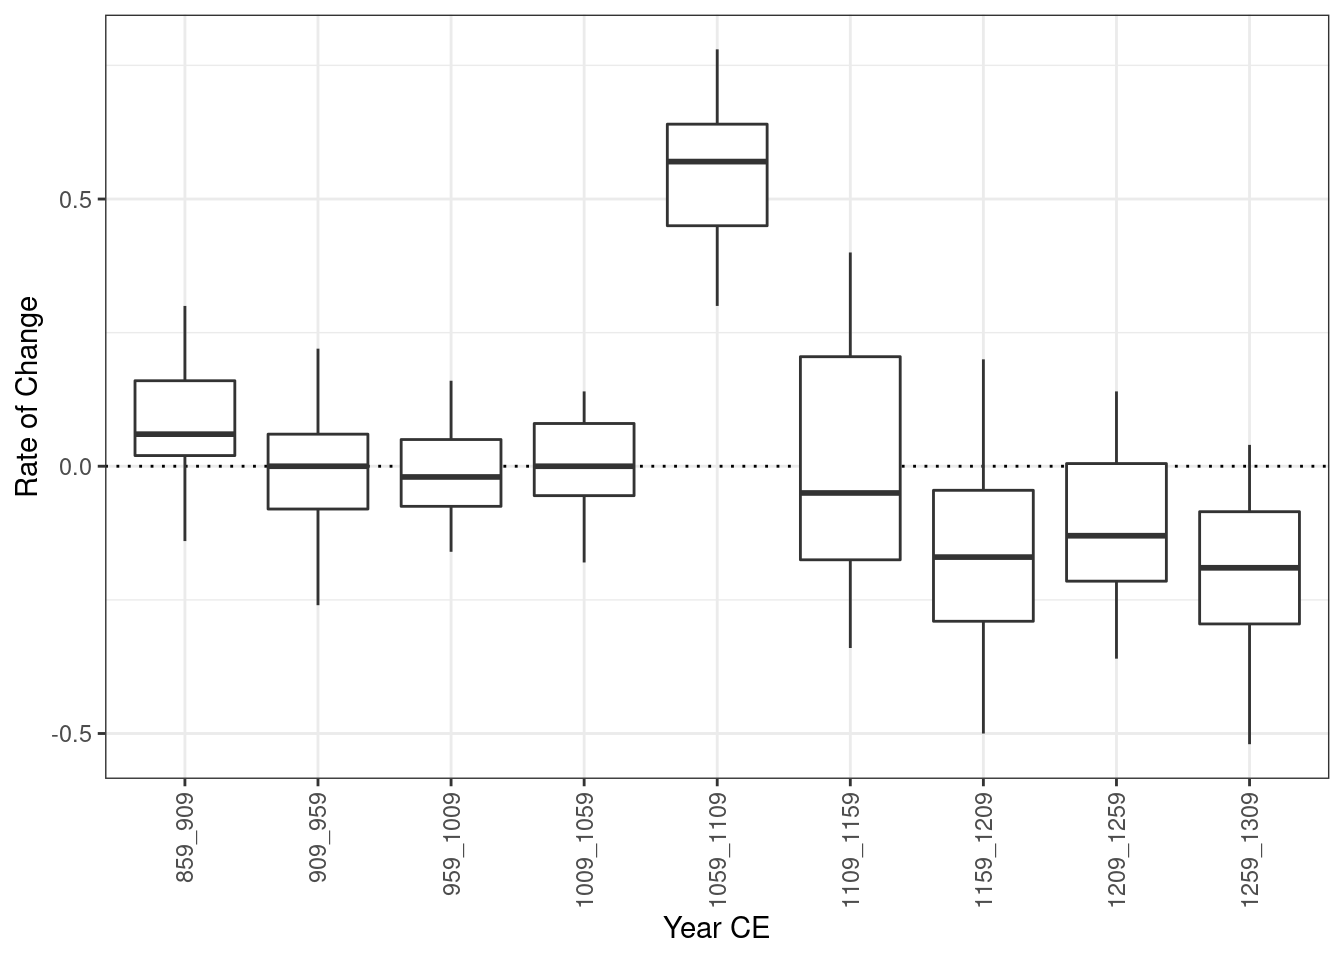
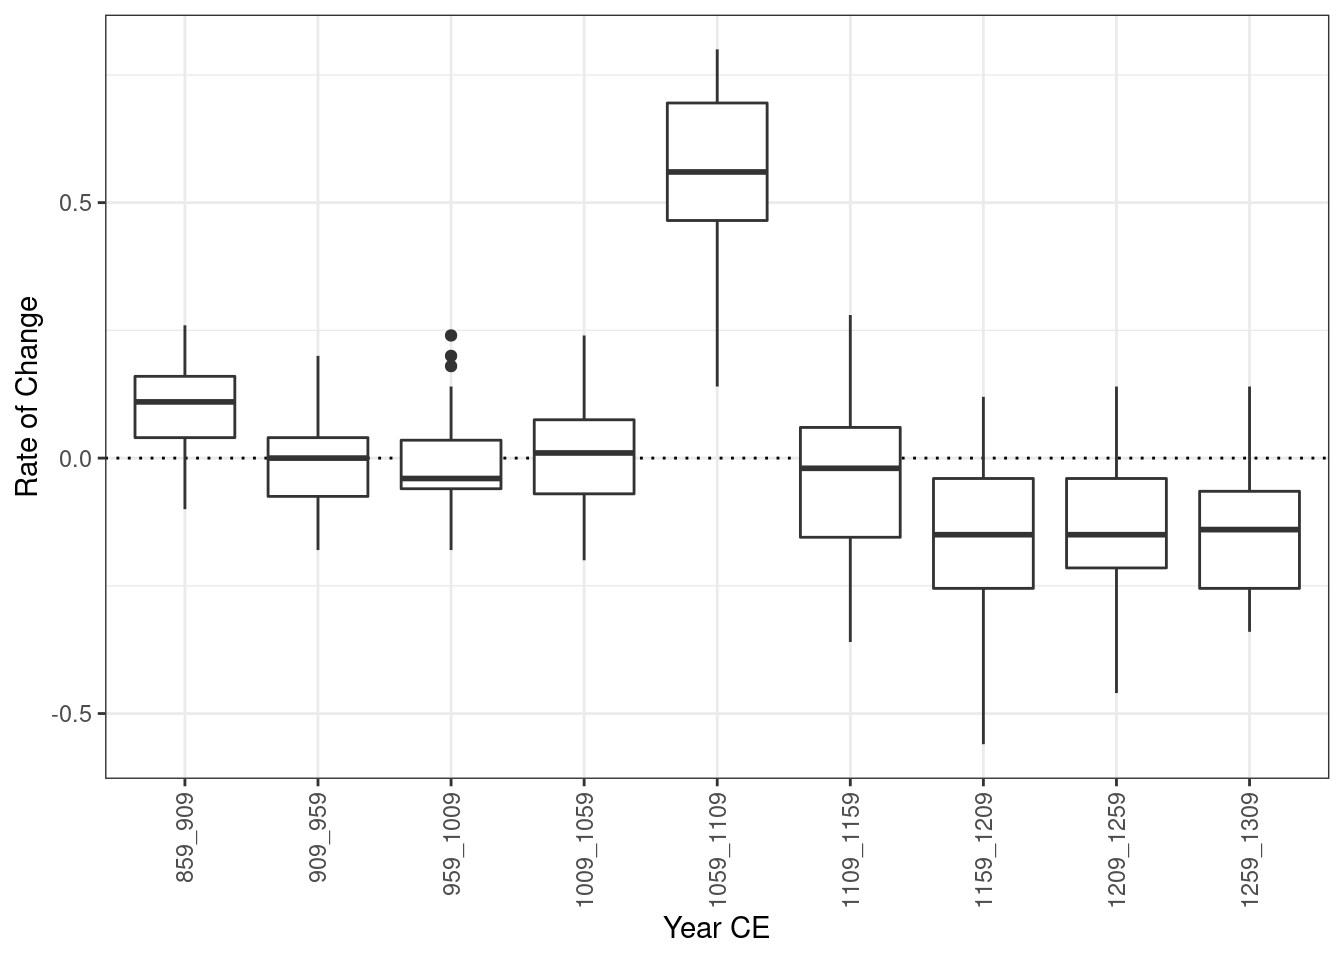
Deploying to gh-pages from @ tesselle/website@42cf3d01c6f4d4f226fd1408aa507405ba7e16fb 🚀

diff --git a/posts/2021-08-15-tesselle-universe/index.html b/posts/2021-08-15-tesselle-universe/index.html
@@ -256,21 +256,27 @@ code span.wa { color: #60a0b0; font-weight: bold; font-style: italic; } /* Warni
 
 
 <p>Most of the R packages of the <strong>tesselle</strong> project are distributed on <a href="https://cran.r-project.org/"><abbr title="Comprehensive R Archive Network">CRAN</abbr></a> when they reach an acceptable level of maturity. Development versions can be installed from <a href="https://github.com/tesselle">GitHub</a> using <a href="https://remotes.r-lib.org">remotes</a> :</p>
-<div class="sourceCode" id="cb1"><pre class="sourceCode r code-with-copy"><code class="sourceCode r"><span id="cb1-1"><a href="#cb1-1" aria-hidden="true" tabindex="-1"></a><span class="do">## Install the development version from GitHub</span></span>
+<div class="cell">
+<div class="sourceCode cell-code" id="cb1"><pre class="sourceCode r code-with-copy"><code class="sourceCode r"><span id="cb1-1"><a href="#cb1-1" aria-hidden="true" tabindex="-1"></a><span class="do">## Install the development version from GitHub</span></span>
 <span id="cb1-2"><a href="#cb1-2" aria-hidden="true" tabindex="-1"></a><span class="fu">install.packages</span>(<span class="st">"remotes"</span>)</span>
 <span id="cb1-3"><a href="#cb1-3" aria-hidden="true" tabindex="-1"></a>remotes<span class="sc">::</span><span class="fu">install_github</span>(<span class="st">"tesselle/tabula"</span>)</span></code><button title="Copy to Clipboard" class="code-copy-button"><i class="bi"></i></button></pre></div>
+</div>
 <p>Thanks to the <a href="https://ropensci.org/r-universe/">R-universe</a> project powered by <a href="https://ropensci.org">rOpenSci</a>, <strong>tesselle</strong> now has its own <abbr title="Comprehensive R Archive Network">CRAN</abbr>-like repository: <a href="https://tesselle.r-universe.dev"><strong>tesselle.r-universe.dev</strong></a>. This repository allows to install all development versions and non-<abbr title="Comprehensive R Archive Network">CRAN</abbr> packages (e.g.&nbsp;<a href="https://www.repostatus.org/#wip"><abbr title="work-in-progress">WIP</abbr></a> packages and large data packages).</p>
 <section id="download-tesselle-packages" class="level2">
 <h2 class="anchored" data-anchor-id="download-tesselle-packages">Download tesselle packages</h2>
 <p>If you want to install a package from the <a href="https://tesselle.r-universe.dev">tesselle universe</a>, simply use <code>install.packages()</code> with the additional repository:</p>
-<div class="sourceCode" id="cb2"><pre class="sourceCode r code-with-copy"><code class="sourceCode r"><span id="cb2-1"><a href="#cb2-1" aria-hidden="true" tabindex="-1"></a><span class="do">## Install a package from the 'tesselle' universe</span></span>
+<div class="cell">
+<div class="sourceCode cell-code" id="cb2"><pre class="sourceCode r code-with-copy"><code class="sourceCode r"><span id="cb2-1"><a href="#cb2-1" aria-hidden="true" tabindex="-1"></a><span class="do">## Install a package from the 'tesselle' universe</span></span>
 <span id="cb2-2"><a href="#cb2-2" aria-hidden="true" tabindex="-1"></a><span class="fu">install.packages</span>(<span class="st">"tabula"</span>, <span class="at">repos =</span> <span class="st">"https://tesselle.r-universe.dev"</span>)</span></code><button title="Copy to Clipboard" class="code-copy-button"><i class="bi"></i></button></pre></div>
-<div class="sourceCode" id="cb3"><pre class="sourceCode r code-with-copy"><code class="sourceCode r"><span id="cb3-1"><a href="#cb3-1" aria-hidden="true" tabindex="-1"></a><span class="do">## Enable the repository globally</span></span>
+</div>
+<div class="cell">
+<div class="sourceCode cell-code" id="cb3"><pre class="sourceCode r code-with-copy"><code class="sourceCode r"><span id="cb3-1"><a href="#cb3-1" aria-hidden="true" tabindex="-1"></a><span class="do">## Enable the repository globally</span></span>
 <span id="cb3-2"><a href="#cb3-2" aria-hidden="true" tabindex="-1"></a><span class="fu">options</span>(<span class="at">repos =</span> <span class="fu">c</span>(<span class="at">tesselle =</span> <span class="st">"https://tesselle.r-universe.dev"</span>,</span>
 <span id="cb3-3"><a href="#cb3-3" aria-hidden="true" tabindex="-1"></a>                  <span class="at">CRAN =</span> <span class="st">"https://cloud.r-project.org"</span>))</span>
 <span id="cb3-4"><a href="#cb3-4" aria-hidden="true" tabindex="-1"></a></span>
 <span id="cb3-5"><a href="#cb3-5" aria-hidden="true" tabindex="-1"></a><span class="do">## Install some packages</span></span>
 <span id="cb3-6"><a href="#cb3-6" aria-hidden="true" tabindex="-1"></a><span class="fu">install.packages</span>(<span class="fu">c</span>(<span class="st">"tabula"</span>, <span class="st">"kairos"</span>))</span></code><button title="Copy to Clipboard" class="code-copy-button"><i class="bi"></i></button></pre></div>
+</div>
 </section>
 <section id="use-the-repository" class="level2">
 <h2 class="anchored" data-anchor-id="use-the-repository">Use the repository</h2>

diff --git a/index.html b/index.html
@@ -202,7 +202,7 @@ ul.task-list{list-style: none;}
     </div>
 </div>
 <div class="list quarto-listing-default">
-<div class="quarto-post image-right" data-index="0" data-categories="packages,releases" data-listing-date-sort="1655510400000" data-listing-file-modified-sort="1660492128869" data-listing-reading-time-sort="1.76">
+<div class="quarto-post image-right" data-index="0" data-categories="packages,releases" data-listing-date-sort="1655510400000" data-listing-file-modified-sort="1660498152443" data-listing-reading-time-sort="1.76">
 <div class="thumbnail">
 <a href="./posts/2022-06-18-kairos-110/index.html">
 <div class="thumbnail-image">
@@ -240,7 +240,7 @@ Nicolas Frerebeau
 </a>
 </div>
 </div>
-<div class="quarto-post image-right" data-index="1" data-categories="packages,releases" data-listing-date-sort="1636502400000" data-listing-file-modified-sort="1660492128869" data-listing-reading-time-sort="3.935">
+<div class="quarto-post image-right" data-index="1" data-categories="packages,releases" data-listing-date-sort="1636502400000" data-listing-file-modified-sort="1660498152443" data-listing-reading-time-sort="3.935">
 <div class="thumbnail">
 <a href="./posts/2021-11-10-kairos-100/index.html">
 <div class="thumbnail-image">
@@ -278,7 +278,7 @@ Nicolas Frerebeau
 </a>
 </div>
 </div>
-<div class="quarto-post image-right" data-index="2" data-categories="packages" data-listing-date-sort="1628985600000" data-listing-file-modified-sort="1660492128869" data-listing-reading-time-sort="0.985">
+<div class="quarto-post image-right" data-index="2" data-categories="packages" data-listing-date-sort="1628985600000" data-listing-file-modified-sort="1660498152443" data-listing-reading-time-sort="0.985">
 <div class="thumbnail">
 <p><a href="./posts/2021-08-15-tesselle-universe/index.html"> <img src="./posts/2021-08-15-tesselle-universe/runiverse.png" class="thumnail-image"> </a></p>
 </div>

diff --git a/posts/2021-11-10-kairos-100/index.html b/posts/2021-11-10-kairos-100/index.html
@@ -329,12 +329,12 @@ div.csl-indent {
 <span id="cb6-3"><a href="#cb6-3" aria-hidden="true" tabindex="-1"></a><span class="fu">head</span>(zuni_boot)</span></code><button title="Copy to Clipboard" class="code-copy-button"><i class="bi"></i></button></pre></div>
 <div class="cell-output cell-output-stdout">
 <pre><code>        min     mean  max     lower     upper
-LZ1105 1109 1162.828 1219 1161.7533 1163.9027
-LZ1103 1025 1137.285 1220 1135.6594 1138.9106
-LZ1100 1058 1155.771 1242 1153.9587 1157.5833
-LZ1099 1078 1090.898 1100 1090.6298 1091.1662
-LZ1097  892 1090.068 1212 1086.7483 1093.3877
-LZ1096  738  842.526 1048  838.4936  846.5584</code></pre>
+LZ1105 1116 1162.696 1208 1161.6206 1163.7714
+LZ1103 1038 1138.146 1207 1136.5590 1139.7330
+LZ1100 1061 1155.202 1224 1153.3144 1157.0896
+LZ1099 1078 1090.722 1100 1090.4493 1090.9947
+LZ1097  919 1094.082 1212 1090.8932 1097.2708
+LZ1096  738  838.067 1048  834.3316  841.8024</code></pre>
 </div>
 </div>
 </section>
